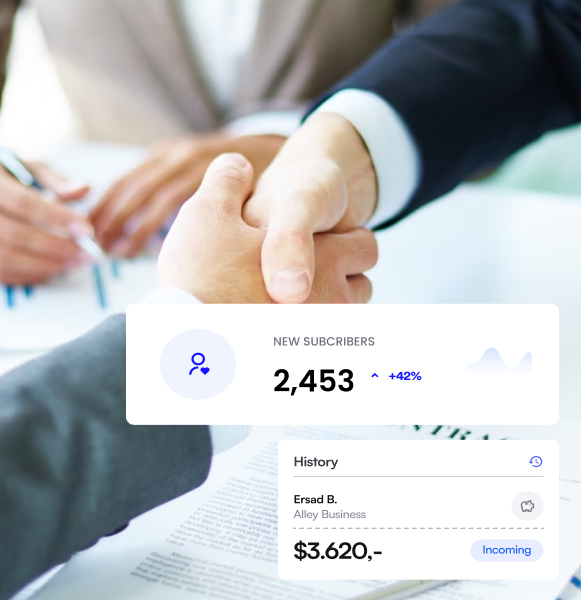
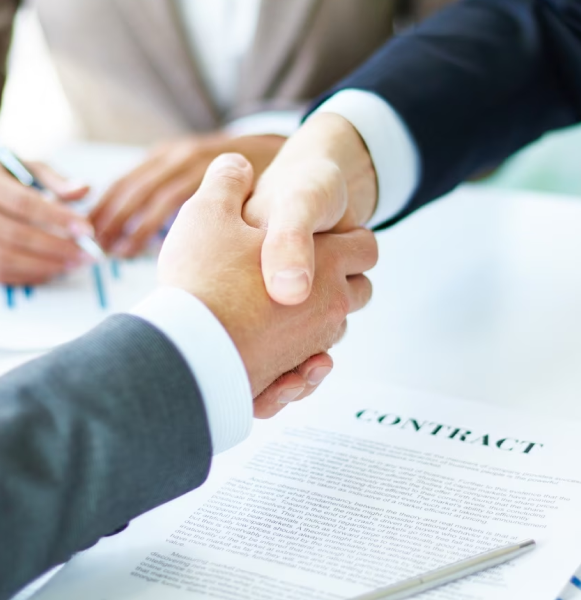
chore: update animation for image in why biz seciton

Changed region(s): [[0.4647, 0.48, 0.9604, 0.99], [0.2169, 0.48, 0.6506, 0.72]]

diff --git a/src/components/molecules/home/WhyBusiness.tsx b/src/components/molecules/home/WhyBusiness.tsx
@@ -4,6 +4,9 @@ import { Box, Grid, Typography } from '@mui/material';
 import * as React from 'react';
 import Image from 'next/image';
 import bizImage from '@/assets/images/home/biz-image.png';
+import bizFinance from '@/assets/images/home/biz-finance.png';
+import bizChart from '@/assets/images/home/biz-chart.png';
+
 import money from '@/assets/images/icons/money-send.svg';
 import timer from '@/assets/images/icons/timer.svg';
 import like from '@/assets/images/icons/like.svg';
@@ -84,8 +87,45 @@ export const WhyBusiness: React.FunctionComponent<IWhyBusinessProps> = () => {
           </Typography>
         </Box>
         <Grid container spacing={isTablet ? '32px' : '65px'}>
-          <Grid item xs={12} lg={6} textAlign={isTablet ? 'center' : 'left'}>
-            <Image src={bizImage} alt="bizImage" style={{ maxWidth: '100%', height: 'auto' }} />
+          <Grid item xs={12} lg={6}>
+            <Box position="relative" maxWidth="581px" mx="auto">
+              <Image
+                src={bizImage}
+                alt="bizImage"
+                style={{ maxWidth: '100%', height: 'auto' }}
+                data-aos="fade-up"
+                data-aos-delay="200"
+              />
+              <Box
+                position="absolute"
+                top="0"
+                left="0"
+                width="100%"
+                height="100%"
+                padding="21px"
+                display="flex"
+                flexDirection="column"
+                justifyContent="space-between"
+              >
+                <Box></Box>
+                <Box display="flex" flexDirection="column" alignItems="flex-end" rowGap="15px">
+                  <Image
+                    src={bizChart}
+                    alt="bizChart"
+                    style={{ maxWidth: '100%', height: 'auto' }}
+                    data-aos="fade-up"
+                    data-aos-delay="300"
+                  />
+                  <Image
+                    src={bizFinance}
+                    alt="bizFinance"
+                    style={{ maxWidth: '100%', height: 'auto' }}
+                    data-aos="fade-up"
+                    data-aos-delay="300"
+                  />
+                </Box>
+              </Box>
+            </Box>
           </Grid>
           <Grid item xs={12} lg={6}>
             <Box display="flex" flexDirection="column" rowGap="40px">
